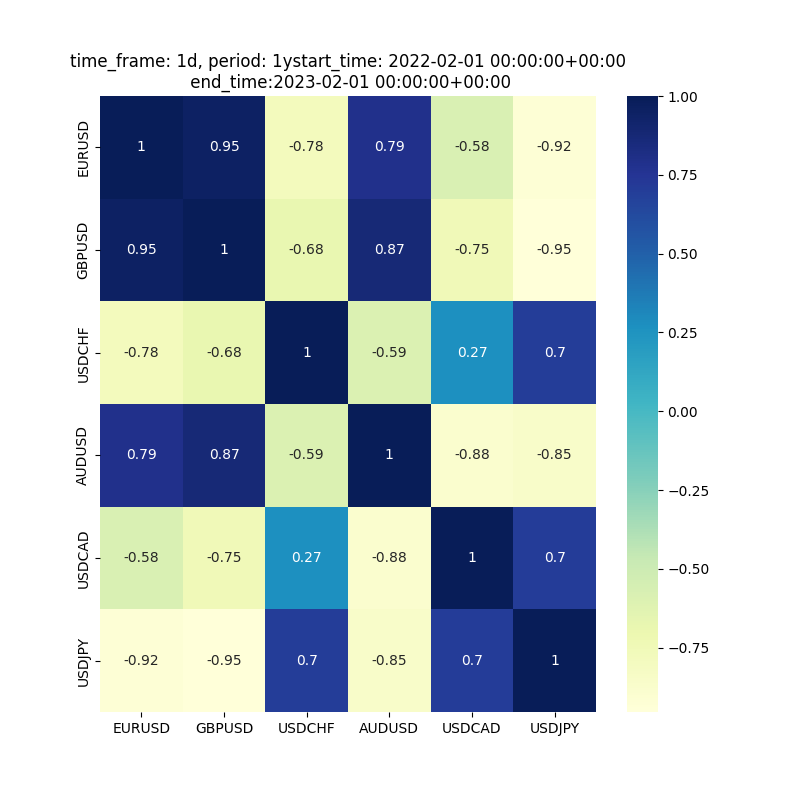
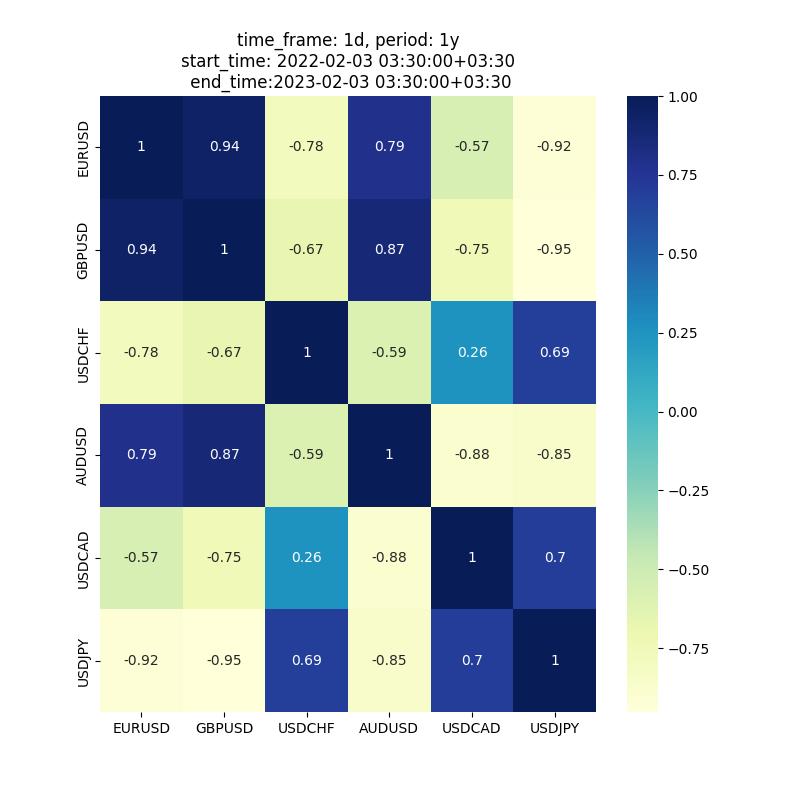
yfinance online calculating

diff --git a/test_yfinance.py b/test_yfinance.py
@@ -11,7 +11,7 @@ from pathlib import Path
 
 from model import CurrencyPair
 from utils import price_corr
-
+from data import resample_timeframe
 
 plt.rcParams['figure.figsize'] = [8.0, 8.0]
 
@@ -42,45 +42,72 @@ smallest_data = np.inf
 
 valid_intervals = ["1m","2m","5m","15m","30m","60m","90m","1h","1d","5d","1wk","1mo","3mo"]
 
-for cp in currency_pairs:
+max_available_data = {
+    "2m": "30d",
+    "5m": "30d",
+    "10m": "30d",
+    "15m": "60d",
+    "30m": "60d",
+    "1h": "90d",
+    "4h": "90d",
+    "1d":"1y"
+}
+
+for i,cp in enumerate(currency_pairs):
 
     #Download JPYAUD data
     print(cp.code, "___", cp.time_frame)
     # print(type(cp.time_frame))
     if cp.time_frame in valid_intervals:
-        print(cp.time_frame, cp.period)
-        data = yf.download(tickers = cp.code + "=X" ,period =cp.period, interval = cp.time_frame)
+        print(cp.time_frame, max_available_data[cp.time_frame])
+        period = max_available_data[cp.time_frame]
+        data = yf.download(tickers = cp.code + "=X" ,period =max_available_data[cp.time_frame], interval = cp.time_frame)
         
     else:
         print(cp.time_frame + " is not valid for yahoo finance, creating it")
-        continue
+        time_frame = currency_pairs[i-1].time_frame
+        print("time frame is ", time_frame)
+        period = max_available_data[time_frame]
+        data = yf.download(tickers = cp.code + "=X" ,period =max_available_data[time_frame], interval = time_frame)
+        print(f"downloaded f{data.shape} time_frame {time_frame} and creating {cp.time_frame}")
+        if cp.time_frame == "10m":
+            rr = "10min"
+        else:
+            rr = "4h"
+        data = resample_timeframe(data, time_frame, rr, lower_case=False)
+        print(f"resampled {data.shape}")
+        # continue
     if data.empty:
         raise ValueError("data is empty")
 
+    data.index = data.index.tz_convert("Asia/Tehran")
     print(data.head())
     print(data.tail())
-    print(data.shape)
+    # print(data.shape)
+    print(data.columns)
 
     smallest_data = data.shape[0] if data.shape[0] < smallest_data else smallest_data
     price_data[cp.time_frame][cp.code] = data["Close"]
 
     cp.set_dataframe(pd.DataFrame(price_data))
 
-    #declare figure
-    # fig = go.Figure()
+    # declare figure
+    fig = go.Figure()
 
-    # #Candlestick
-    # fig.add_trace(go.Candlestick(x=data.index,
-    #                 open=data['Open'],
-    #                 high=data['High'],
-    #                 low=data['Low'],
-    #                 close=data['Close'], name = 'market data'))
+    #Candlestick
+    fig.add_trace(go.Candlestick(x=data.index,
+                    open=data['Open'],
+                    high=data['High'],
+                    low=data['Low'],
+                    close=data['Close'], name = 'market data'))
 
-    # # Add titles
-    # fig.update_layout(
-    #     title=cp.code)
+    # Add titles
+    fig.update_layout(
+        title=cp.code)
 
-    #Show
+    fig.write_image(Path(graph_dir) / (cp.code + cp.time_frame + period + ".png"))
+
+    # Show
     # fig.show()
 
 print("len ", smallest_data)
@@ -96,9 +123,9 @@ print("len ", smallest_data)
 for tf in price_data:
     corr = price_corr(pd.DataFrame(price_data[tf]))
     sn.heatmap(corr, cmap ="YlGnBu",annot=True)
-    cp_info = f"time_frame: {tf}, period: {time_frames[tf]}"
+    cp_info = f"time_frame: {tf}, period: {max_available_data[tf]}"
     time_info = f"start_time: {price_data[tf][list(price_data[tf].keys())[0]].index[0]}\n end_time:{price_data[tf][list(price_data[tf].keys())[0]].index[-1]}"
-    plt.title(cp_info + time_info)
+    plt.title(cp_info + "\n" + time_info)
     plt.savefig(Path(graph_dir) / (cp_info + ".png"))
     plt.show()
 
@@ -106,6 +133,3 @@ for tf in price_data:
 # print(price_data.shape)
 # print(price_data.head)
 # print(price_data.corr())
-
-#TODO handle connection error for one of the cp objs
-#TODO resampling to create missed timeframes

diff --git a/data.py b/data.py
@@ -56,17 +56,27 @@ def get_data_from_fxmarket(file_path, symbol, start_date, end_data, update=False
     return data
 
 
-def resample_timeframe(df, curr_timeframe, new_timeframe):
-    ohlc_dict = {                                                                                                             
-        'open': 'first',                                                                                                    
-        'high': 'max',                                                                                                       
-        'low': 'min',                                                                                                        
-        'close': 'last',
-    }
-
+def resample_timeframe(df, curr_timeframe, new_timeframe, lower_case=True):
+    if lower_case:
+        ohlc_dict = {                                                                                                             
+            'open': 'first',                                                                                                    
+            'high': 'max',                                                                                                       
+            'low': 'min',                                                                                                        
+            'close': 'last',
+        }
+    else:
+        ohlc_dict = {                                                                                                             
+            'Open': 'first',                                                                                                    
+            'High': 'max',                                                                                                       
+            'Low': 'min',                                                                                                        
+            'Close': 'last',
+        }
+    if "time" not in df.columns:
+        df['time'] = pd.to_datetime(df.index)
     new = df.set_index("time").resample(new_timeframe, closed='left', label='left').apply(ohlc_dict)
     new.insert(0, 'time', new.index)
     new.reset_index(drop=True)
+    
     return new
 
 def pearson_corr(df):

diff --git a/model.py b/model.py
@@ -50,8 +50,6 @@ class CurrencyPair():
         data_path = data_dir / Path(self.get_file_name())
         data = self.get_dataframe()
         with open(data_path,"w") as f:
-            # f.write(data)
-            # f.write(data.to_json())
             data.apply(lambda x: f.write(x.to_json()), axis=1)
         
 
